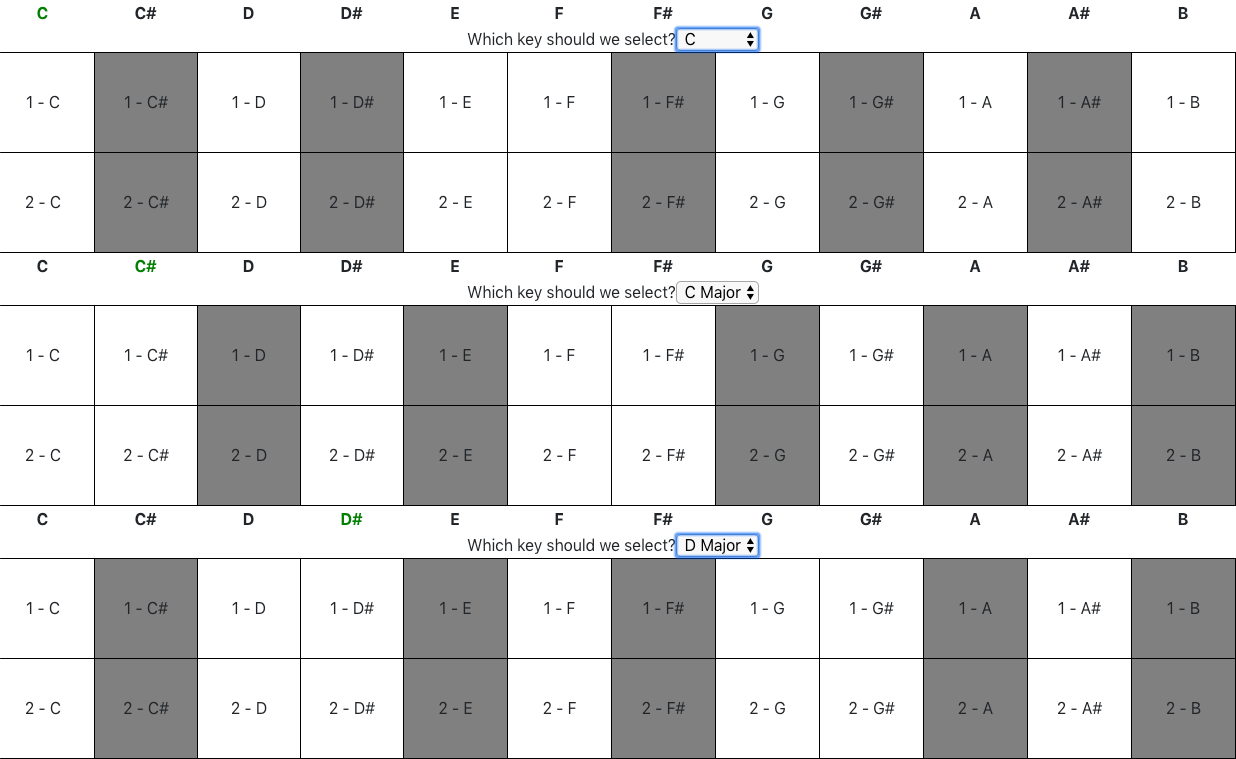
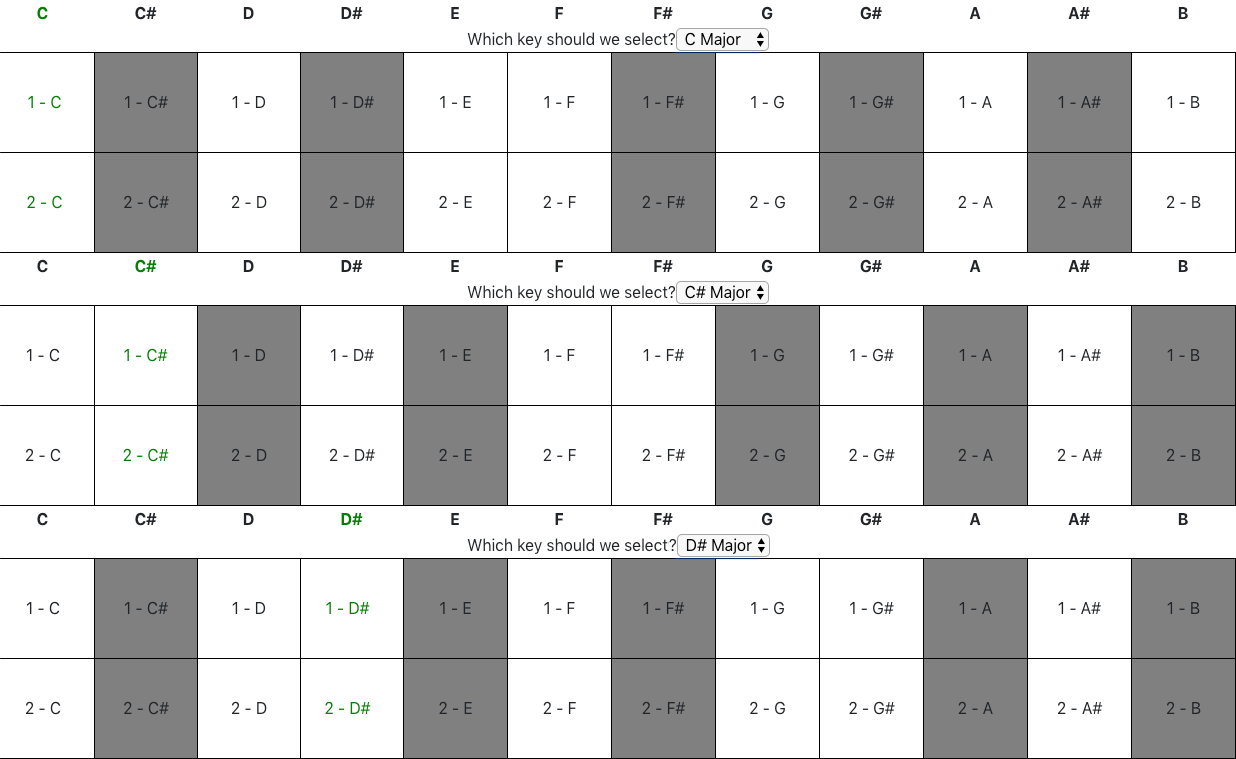
UPDATE: remove some diagrams and align the scales to the starting key per Tom's feedback.

diff --git a/musicTest/static/js/main.2e4c7e1c.chunk.js b/musicTest/static/js/main.2e4c7e1c.chunk.js
@@ -1,0 +1,2 @@
+(window.webpackJsonp=window.webpackJsonp||[]).push([[0],[,,,,,,,,,,,,,function(e,t,a){e.exports=a(29)},,,,,,function(e,t,a){},function(e,t,a){},function(e,t,a){},function(e,t,a){},,,,,function(e,t,a){},function(e,t,a){},function(e,t,a){"use strict";a.r(t);var l=a(0),n=a.n(l),s=a(9),c=a.n(s),r=(a(19),a(1)),i=a(2),o=a(5),m=a(3),h=a(4),y=(a(20),a(21),function(e){return n.a.createElement("div",{className:"content"},e.children)}),u=function(e){return n.a.createElement("img",{className:"img-fluid",src:e.src,alt:e.alt})},p=function(e){return n.a.createElement("div",{className:"section",id:e.id},e.children)},d=(a(22),function(e){return n.a.createElement("div",{className:"major-break"},"\xa0")}),E=function(e){function t(e){return Object(r.a)(this,t),Object(o.a)(this,Object(m.a)(t).call(this))}return Object(h.a)(t,e),Object(i.a)(t,[{key:"render",value:function(){return n.a.createElement("div",{className:"Writeup"},n.a.createElement("hr",null),n.a.createElement("h1",{className:"header",id:"quick_writeup"},"Quick Description"),n.a.createElement(p,{id:"take_this_keyboard"},n.a.createElement("h2",null,"Let's take this keyboard..."),n.a.createElement(u,{src:"img/musicWriteup_pianoKeys.png",alt:"Basic Piano Keyboard"}),n.a.createElement(y,null,"Notice that there is a pattern that is repeated three times (the center repitition is highlighted for clarity)."),n.a.createElement(y,null,"Each pattern is what is called an octave, with each key representing a musical note."),n.a.createElement(y,null,"(Note that the shapes of the keys are significant - the white keys are Staff notes and the dark keys are the Sharp (#) notes.)"),n.a.createElement(u,{src:"img/musicWriteup_take_this_keyboard.png",alt:"Keyboard with black keys spaced out the same as the white keys"}),n.a.createElement(y,null,"For the purposes of this dicussion, the shape of the keys more indicate the scale of C Major and can cause confusion with other scales"),n.a.createElement(y,null,"So we will be mostly focusing on a smaller version of this same keyboard where all the keys are the same size."),n.a.createElement("hr",null)),n.a.createElement(d,null),n.a.createElement(p,{id:"semitone-wheel"},n.a.createElement("h2",null,"Octaves are Patterns"),n.a.createElement(y,null,'An "Octave" is the pattern that repeats. This can mean from C to the next C or the previous C.'),n.a.createElement(u,{src:"img/musicWriteup_octaves.png",alt:"Octave is the distance between the same tone."}),n.a.createElement(y,null,"Note that all notes have Octaves going up or down. It just is a matter of perspective."),n.a.createElement(u,{src:"img/musicWriteup_octaves-shift.png",alt:"An Octave starts from any key, not just C"}),n.a.createElement(y,null,"Each note represents a specific sound frequency. "),n.a.createElement(y,null,"The difference in going up an octave or down an octave of any note is doubling or halving the frequency respectively)"),n.a.createElement(u,{src:"img/musicWriteup_sine-wave.png",alt:"Sine-Wave moving up one octave and down one octave"}),n.a.createElement(y,null,"With 12 notes between octaves, each note can be thought of as an equal 1/12th logrithmic step between octaves. This applies for both white and black keys."),n.a.createElement(u,{src:"img/musicWriteup_play_all_the_keys.png",alt:"All keys in an octave are each semitones"}),n.a.createElement(y,null,"Sometimes this can best be thought of like a circle, with 12 notes written around."),n.a.createElement(u,{src:"img/musicWriteup_semitone-wheel.png",alt:"Circle with a 12 point polygon inscribed"}),n.a.createElement(y,null,"Each trip around the circle is then a new octave. Moving Clockwise goes up an Octave. Moving Counter-Clockwise goes down an Octave."),n.a.createElement("hr",null)),n.a.createElement(d,null),n.a.createElement("h2",null,"Play keys and Skip keys"),n.a.createElement(p,{id:"start-of-major-scales"},n.a.createElement(u,{src:"img/musicWriteup_take_this_keyboard.png",alt:"Keyboard with black keys spaced out the same as the white keys"}),n.a.createElement(y,null,"Lets take a closer look at the scale of C-Major..."),n.a.createElement("div",{className:"content center-align"},n.a.createElement("table",{className:"explaination-table"},n.a.createElement("thead",null,n.a.createElement("tr",null,n.a.createElement("th",null,"C"),n.a.createElement("th",null,"C#"),n.a.createElement("th",null,"D"),n.a.createElement("th",null,"D#"),n.a.createElement("th",null,"E"),n.a.createElement("th",null,"F"),n.a.createElement("th",null,"F#"),n.a.createElement("th",null,"G"),n.a.createElement("th",null,"G#"),n.a.createElement("th",null,"A"),n.a.createElement("th",null,"A#"),n.a.createElement("th",null,"B"))),n.a.createElement("tbody",null,n.a.createElement("tr",null,n.a.createElement("td",{className:"play-key start-key"},"Play Key"),n.a.createElement("td",{className:"skip-key"},"Skip Key"),n.a.createElement("td",{className:"play-key"},"Play Key"),n.a.createElement("td",{className:"skip-key"},"Skip Key"),n.a.createElement("td",{className:"play-key"},"Play Key"),n.a.createElement("td",{className:"play-key"},"Play Key"),n.a.createElement("td",{className:"skip-key"},"Skip Key"),n.a.createElement("td",{className:"play-key"},"Play Key"),n.a.createElement("td",{className:"skip-key"},"Skip Key"),n.a.createElement("td",{className:"play-key"},"Play Key"),n.a.createElement("td",{className:"skip-key"},"Skip Key"),n.a.createElement("td",{className:"play-key"},"Play Key"))))),n.a.createElement(y,null,"Note that the key of C-Major aligns pretty well with the keyboard above. ",n.a.createElement("br",null)," The ",n.a.createElement("b",null,"Lighter colored keys")," are the ",n.a.createElement("b",null,"'Play' keys"),", and the ",n.a.createElement("b",null,"darker colored keys")," are the ",n.a.createElement("b",null,"'Skip' keys"),"."),n.a.createElement("hr",null)),n.a.createElement(p,{id:"shift-d-minor"},n.a.createElement(y,null,"This is the scale of C#-Major (C-Sharp Major). Notice anything similar?"),n.a.createElement("table",{className:"explaination-table"},n.a.createElement("thead",null,n.a.createElement("tr",null,n.a.createElement("th",null,"C#"),n.a.createElement("th",null,"D"),n.a.createElement("th",null,"D#"),n.a.createElement("th",null,"E"),n.a.createElement("th",null,"F"),n.a.createElement("th",null,"F#"),n.a.createElement("th",null,"G"),n.a.createElement("th",null,"G#"),n.a.createElement("th",null,"A"),n.a.createElement("th",null,"A#"),n.a.createElement("th",null,"B"),n.a.createElement("th",null,"C"))),n.a.createElement("tbody",null,n.a.createElement("tr",null,n.a.createElement("td",{className:"play-key start-key"},"Play Key"),n.a.createElement("td",{className:"skip-key"},"Skip Key"),n.a.createElement("td",{className:"play-key"},"Play Key"),n.a.createElement("td",{className:"skip-key"},"Skip Key"),n.a.createElement("td",{className:"play-key"},"Play Key"),n.a.createElement("td",{className:"play-key"},"Play Key"),n.a.createElement("td",{className:"skip-key"},"Skip Key"),n.a.createElement("td",{className:"play-key"},"Play Key"),n.a.createElement("td",{className:"skip-key"},"Skip Key"),n.a.createElement("td",{className:"play-key"},"Play Key"),n.a.createElement("td",{className:"skip-key"},"Skip Key"),n.a.createElement("td",{className:"play-key"},"Play Key")))),n.a.createElement("hr",null)),n.a.createElement(p,{id:"shift-d-major"},n.a.createElement("span",null,"This is the scale of D-Major."),n.a.createElement("table",{className:"explaination-table"},n.a.createElement("thead",null,n.a.createElement("tr",null,n.a.createElement("th",null,"D"),n.a.createElement("th",null,"D#"),n.a.createElement("th",null,"E"),n.a.createElement("th",null,"F"),n.a.createElement("th",null,"F#"),n.a.createElement("th",null,"G"),n.a.createElement("th",null,"G#"),n.a.createElement("th",null,"A"),n.a.createElement("th",null,"A#"),n.a.createElement("th",null,"B"),n.a.createElement("th",null,"C"),n.a.createElement("th",null,"C#"))),n.a.createElement("tbody",null,n.a.createElement("tr",null,n.a.createElement("td",{className:"play-key start-key"},"Play Key"),n.a.createElement("td",{className:"skip-key"},"Skip Key"),n.a.createElement("td",{className:"play-key"},"Play Key"),n.a.createElement("td",{className:"skip-key"},"Skip Key"),n.a.createElement("td",{className:"play-key"},"Play Key"),n.a.createElement("td",{className:"play-key"},"Play Key"),n.a.createElement("td",{className:"skip-key"},"Skip Key"),n.a.createElement("td",{className:"play-key"},"Play Key"),n.a.createElement("td",{className:"skip-key"},"Skip Key"),n.a.createElement("td",{className:"play-key"},"Play Key"),n.a.createElement("td",{className:"skip-key"},"Skip Key"),n.a.createElement("td",{className:"play-key"},"Play Key")))),n.a.createElement("hr",null)),n.a.createElement(p,{id:"shift-e-minor"},n.a.createElement("span",null,"This is the scale of D#-Major."),n.a.createElement("table",{className:"explaination-table"},n.a.createElement("thead",null,n.a.createElement("tr",null,n.a.createElement("th",null,"D#"),n.a.createElement("th",null,"E"),n.a.createElement("th",null,"F"),n.a.createElement("th",null,"F#"),n.a.createElement("th",null,"G"),n.a.createElement("th",null,"G#"),n.a.createElement("th",null,"A"),n.a.createElement("th",null,"A#"),n.a.createElement("th",null,"B"),n.a.createElement("th",null,"C"),n.a.createElement("th",null,"C#"),n.a.createElement("th",null,"D"))),n.a.createElement("tbody",null,n.a.createElement("tr",null,n.a.createElement("td",{className:"play-key start-key"},"Play Key"),n.a.createElement("td",{className:"skip-key"},"Skip Key"),n.a.createElement("td",{className:"play-key"},"Play Key"),n.a.createElement("td",{className:"skip-key"},"Skip Key"),n.a.createElement("td",{className:"play-key"},"Play Key"),n.a.createElement("td",{className:"play-key"},"Play Key"),n.a.createElement("td",{className:"skip-key"},"Skip Key"),n.a.createElement("td",{className:"play-key"},"Play Key"),n.a.createElement("td",{className:"skip-key"},"Skip Key"),n.a.createElement("td",{className:"play-key"},"Play Key"),n.a.createElement("td",{className:"skip-key"},"Skip Key"),n.a.createElement("td",{className:"play-key"},"Play Key")))),n.a.createElement(y,null,"Did you notice a pattern?"),n.a.createElement(y,null,"We are simply shifting the starting key of the pattern"),n.a.createElement(u,{src:"img/musicWriteup_shifting_start.png",alt:"Shift the start"}),n.a.createElement(y,null,"Thinking again in terms of the wheel, this just means we are just rotating the pattern around on the keys to go up and down octaves."),n.a.createElement(u,{src:"img/musicWriteup_c-semitone-wheel-together.png",alt:"Rotating the Semitone circle one 1/12th of the way around"}),n.a.createElement("hr",null)),n.a.createElement(d,null),n.a.createElement(p,{id:"shift-example-1"},n.a.createElement("h2",null,"Let's look closer at C#-Major"),n.a.createElement(u,{src:"img/musicWriteup_shift_1_d_minor.png",alt:"C-Major shift"}),n.a.createElement(y,null,"Playing only those Light Keys gives the Key of C#-Major"),n.a.createElement("hr",null)),n.a.createElement(p,{id:"shift-example-2"},n.a.createElement("h2",null,"Let's look closer at D#-Major"),n.a.createElement(u,{src:"img/musicWriteup_shift_3_e_minor.png",alt:"D-Major shift"}),n.a.createElement(y,null,"Playing only those Light Keys gives the Key of D#-Major")),n.a.createElement(d,null),n.a.createElement(p,{id:"virtual-keyboard"},n.a.createElement(y,null,"Or you can change the key in the virtual keyboard above and hear the tones yourself"),n.a.createElement(u,{src:"img/virtualKeyboard.png",alt:"virtual-keyboard"})))}}]),t}(l.Component),f=a(6),k=a(10),v=a.n(k),g=(a(27),function(e){function t(e){var a;Object(r.a)(this,t);var l=(a=Object(o.a)(this,Object(m.a)(t).call(this))).determineIfSharp(e.type);return a.state={isDown:!1,audioFile:a.calculateAudioFile(e.level,e.note,e.type,l),noteLabel:a.calculateNoteLabel(e.level,e.note,e.type,e.keyOffset,l),cssClasses:a.calculateCssClasses(e.note,e.keyOffset,e.selectedOffsets,l)},a}return Object(h.a)(t,e),Object(i.a)(t,[{key:"determineIfSharp",value:function(e){return"sharp"===e}},{key:"calculateAudioFile",value:function(e,t,a,l){return"lq/"+e+"_"+t+"_"+(l?"sharp":"_____")+"_lo.mp3"}},{key:"calculateNoteLabel",value:function(e,t,a,l,n){return"".concat(e," - ").concat(t).concat(n?"#":"")}},{key:"calculateCssClasses",value:function(e,t,a,l){return"note offset-".concat(t," note-").concat(e?e.toLowerCase():"").concat(l?"-sharp":"")}},{key:"handleFinishedPlaying",value:function(){this.setState(function(e){return{isDown:!1}})}},{key:"toggleIsDown",value:function(){this.setState(function(e){return{isDown:!e.isDown}})}},{key:"render",value:function(){var e=this,t=!1;return this.props.selectedKeyOffsets&&(t=this.props.selectedKeyOffsets.includes(this.props.keyOffset)),n.a.createElement("td",{className:this.state.cssClasses+" "+(this.state.isDown?"playing":"")+" "+(t?"selected":""),onClick:function(t){return e.toggleIsDown(!0,t)}},n.a.createElement("span",{title:this.audioFile},this.state.noteLabel),n.a.createElement(v.a,{url:this.state.audioFile,playStatus:this.state.isDown?"PLAYING":"STOPPED",onFinishedPlaying:function(t){return e.handleFinishedPlaying(t)}}))}}]),t}(l.Component)),O=function(e){function t(e){return Object(r.a)(this,t),Object(o.a)(this,Object(m.a)(t).call(this))}return Object(h.a)(t,e),Object(i.a)(t,[{key:"render",value:function(){return n.a.createElement("tr",{className:"octave"},n.a.createElement(g,{level:this.props.level,note:"C",type:"standard",keyOffset:1,selectedKeyOffsets:this.props.selectedKeyOffsets}),n.a.createElement(g,{level:this.props.level,note:"C",type:"sharp",keyOffset:2,selectedKeyOffsets:this.props.selectedKeyOffsets}),n.a.createElement(g,{level:this.props.level,note:"D",type:"standard",keyOffset:3,selectedKeyOffsets:this.props.selectedKeyOffsets}),n.a.createElement(g,{level:this.props.level,note:"D",type:"sharp",keyOffset:4,selectedKeyOffsets:this.props.selectedKeyOffsets}),n.a.createElement(g,{level:this.props.level,note:"E",type:"standard",keyOffset:5,selectedKeyOffsets:this.props.selectedKeyOffsets}),n.a.createElement(g,{level:this.props.level,note:"F",type:"standard",keyOffset:6,selectedKeyOffsets:this.props.selectedKeyOffsets}),n.a.createElement(g,{level:this.props.level,note:"F",type:"sharp",keyOffset:7,selectedKeyOffsets:this.props.selectedKeyOffsets}),n.a.createElement(g,{level:this.props.level,note:"G",type:"standard",keyOffset:8,selectedKeyOffsets:this.props.selectedKeyOffsets}),n.a.createElement(g,{level:this.props.level,note:"G",type:"sharp",keyOffset:9,selectedKeyOffsets:this.props.selectedKeyOffsets}),n.a.createElement(g,{level:this.props.level,note:"A",type:"standard",keyOffset:10,selectedKeyOffsets:this.props.selectedKeyOffsets}),n.a.createElement(g,{level:this.props.level,note:"A",type:"sharp",keyOffset:11,selectedKeyOffsets:this.props.selectedKeyOffsets}),n.a.createElement(g,{level:this.props.level,note:"B",type:"standard",keyOffset:12,selectedKeyOffsets:this.props.selectedKeyOffsets}))}}]),t}(l.Component),K=a(12),b=[1,3,5,6,8,10,12],N=function(e){function t(e){var a;return Object(r.a)(this,t),(a=Object(o.a)(this,Object(m.a)(t).call(this))).handleSelectChanged=a.handleSelectChanged.bind(Object(f.a)(Object(f.a)(a)),!1),a}return Object(h.a)(t,e),Object(i.a)(t,[{key:"mapKey",value:function(e){return b.map(function(t){return(t-1+e)%12+1})}},{key:"handleSelectChanged",value:function(e){console.log("change occurred");var t=document.getElementById("key-selector").value.split(":"),a=Object(K.a)(t,2),l=a[0],n=a[1],s=0;try{s=parseInt(l)}catch(r){}var c=this.mapKey(s);console.log(c),this.props.onKeyChange(c,n,e)}},{key:"render",value:function(){return n.a.createElement("form",{className:"KeySelector"},n.a.createElement("span",null,"Which key should we select?"),n.a.createElement("select",{id:"key-selector",onChange:this.handleSelectChanged},n.a.createElement("option",{value:"0:c-std"},"C Major"),n.a.createElement("option",{value:"1:c-major"},"C# Major"),n.a.createElement("option",{value:"2:d-std"},"D Major"),n.a.createElement("option",{value:"3:d-major"},"D# Major"),n.a.createElement("option",{value:"4:e-std"},"E Major"),n.a.createElement("option",{value:"5:f-std"},"F Major"),n.a.createElement("option",{value:"6:f-major"},"F# Major"),n.a.createElement("option",{value:"7:g-std"},"G Major"),n.a.createElement("option",{value:"8:g-major"},"G# Major"),n.a.createElement("option",{value:"9:a-std"},"A Major"),n.a.createElement("option",{value:"10:a-major"},"A# Major"),n.a.createElement("option",{value:"11:b-std"},"B Major")))}}]),t}(l.Component),j=a(11),w=(a(28),[1,3,5,6,8,10,12]),C=function(e){function t(e){var a;return Object(r.a)(this,t),(a=Object(o.a)(this,Object(m.a)(t).call(this))).state={selectedOffsets:w,keyName:"c-std"},a.handleKeyChanged=a.handleKeyChanged.bind(Object(f.a)(Object(f.a)(a))),a}return Object(h.a)(t,e),Object(i.a)(t,[{key:"componentDidMount",value:function(){j.soundManager.setup({autoLoad:!0,ignoreMobileRestrictions:!0})}},{key:"handleKeyChanged",value:function(e,t,a){console.log("app registered the key changed"),this.setState(function(a){return{selectedOffsets:e,keyName:t}})}},{key:"render",value:function(){return n.a.createElement("div",{className:"VirtualPiano ".concat(this.state.keyName)},n.a.createElement("table",null,n.a.createElement("thead",null,n.a.createElement("tr",null,n.a.createElement("th",{className:"header note-c"},"C "),n.a.createElement("th",{className:"header note-c-sharp"},"C#"),n.a.createElement("th",{className:"header note-d"},"D"),n.a.createElement("th",{className:"header note-d-sharp"},"D#"),n.a.createElement("th",{className:"header note-e"},"E"),n.a.createElement("th",{className:"header note-f"},"F"),n.a.createElement("th",{className:"header note-f-sharp"},"F#"),n.a.createElement("th",{className:"header note-g"},"G"),n.a.createElement("th",{className:"header note-g-sharp"},"G#"),n.a.createElement("th",{className:"header note-a"},"A"),n.a.createElement("th",{className:"header note-a-sharp"},"A#"),n.a.createElement("th",{className:"header note-b"},"B"))),n.a.createElement("tbody",null,n.a.createElement("tr",null,n.a.createElement("td",{colSpan:"12"},n.a.createElement(N,{onKeyChange:this.handleKeyChanged}))),n.a.createElement(O,{level:"1",selectedKeyOffsets:this.state.selectedOffsets}),n.a.createElement(O,{level:"2",selectedKeyOffsets:this.state.selectedOffsets}),n.a.createElement(O,{level:"3",selectedKeyOffsets:this.state.selectedOffsets}),n.a.createElement(O,{level:"4",selectedKeyOffsets:this.state.selectedOffsets}),n.a.createElement(O,{level:"5",selectedKeyOffsets:this.state.selectedOffsets}),n.a.createElement(O,{level:"6",selectedKeyOffsets:this.state.selectedOffsets}),n.a.createElement(O,{level:"7",selectedKeyOffsets:this.state.selectedOffsets}))),n.a.createElement(y,null,"Tap the note to start/stop a sound (Lighter keys are within the scale, Darker keys are not)"),n.a.createElement(y,null,"Start from the Green key to play the given scale."))}}]),t}(l.Component),S=function(e){function t(e){return Object(r.a)(this,t),Object(o.a)(this,Object(m.a)(t).call(this))}return Object(h.a)(t,e),Object(i.a)(t,[{key:"render",value:function(){return n.a.createElement("div",{className:"App"},n.a.createElement(C,null),n.a.createElement(E,null))}}]),t}(l.Component);Boolean("localhost"===window.location.hostname||"[::1]"===window.location.hostname||window.location.hostname.match(/^127(?:\.(?:25[0-5]|2[0-4][0-9]|[01]?[0-9][0-9]?)){3}$/));c.a.render(n.a.createElement(S,null),document.getElementById("root")),"serviceWorker"in navigator&&navigator.serviceWorker.ready.then(function(e){e.unregister()})}],[[13,1,2]]]);
+//# sourceMappingURL=main.2e4c7e1c.chunk.js.map

diff --git a/musicTest/index.html b/musicTest/index.html
@@ -1,1 +1,1 @@
-<!doctype html><html lang="en"><head><meta charset="utf-8"/><link rel="shortcut icon" href="/musicTest/favicon.ico"/><link rel="stylesheet" href="https://stackpath.bootstrapcdn.com/bootstrap/4.3.1/css/bootstrap.min.css" integrity="sha384-ggOyR0iXCbMQv3Xipma34MD+dH/1fQ784/j6cY/iJTQUOhcWr7x9JvoRxT2MZw1T" crossorigin="anonymous"><meta name="viewport" content="width=device-width,initial-scale=1,shrink-to-fit=no"/><meta name="theme-color" content="#000000"/><link rel="manifest" href="/musicTest/manifest.json"/><title>Understanding Music Scales</title><link href="/musicTest/static/css/main.3e971f3a.chunk.css" rel="stylesheet"></head><body><noscript>You need to enable JavaScript to run this app.</noscript><div id="root"></div><script>!function(l){function e(e){for(var r,t,n=e[0],o=e[1],u=e[2],i=0,f=[];i<n.length;i++)t=n[i],c[t]&&f.push(c[t][0]),c[t]=0;for(r in o)Object.prototype.hasOwnProperty.call(o,r)&&(l[r]=o[r]);for(s&&s(e);f.length;)f.shift()();return p.push.apply(p,u||[]),a()}function a(){for(var e,r=0;r<p.length;r++){for(var t=p[r],n=!0,o=1;o<t.length;o++){var u=t[o];0!==c[u]&&(n=!1)}n&&(p.splice(r--,1),e=i(i.s=t[0]))}return e}var t={},c={1:0},p=[];function i(e){if(t[e])return t[e].exports;var r=t[e]={i:e,l:!1,exports:{}};return l[e].call(r.exports,r,r.exports,i),r.l=!0,r.exports}i.m=l,i.c=t,i.d=function(e,r,t){i.o(e,r)||Object.defineProperty(e,r,{enumerable:!0,get:t})},i.r=function(e){"undefined"!=typeof Symbol&&Symbol.toStringTag&&Object.defineProperty(e,Symbol.toStringTag,{value:"Module"}),Object.defineProperty(e,"__esModule",{value:!0})},i.t=function(r,e){if(1&e&&(r=i(r)),8&e)return r;if(4&e&&"object"==typeof r&&r&&r.__esModule)return r;var t=Object.create(null);if(i.r(t),Object.defineProperty(t,"default",{enumerable:!0,value:r}),2&e&&"string"!=typeof r)for(var n in r)i.d(t,n,function(e){return r[e]}.bind(null,n));return t},i.n=function(e){var r=e&&e.__esModule?function(){return e.default}:function(){return e};return i.d(r,"a",r),r},i.o=function(e,r){return Object.prototype.hasOwnProperty.call(e,r)},i.p="/musicTest/";var r=window.webpackJsonp=window.webpackJsonp||[],n=r.push.bind(r);r.push=e,r=r.slice();for(var o=0;o<r.length;o++)e(r[o]);var s=n;a()}([])</script><script src="/musicTest/static/js/2.63a7d94e.chunk.js"></script><script src="/musicTest/static/js/main.dcf74447.chunk.js"></script></body></html>
+<!doctype html><html lang="en"><head><meta charset="utf-8"/><link rel="shortcut icon" href="/musicTest/favicon.ico"/><link rel="stylesheet" href="https://stackpath.bootstrapcdn.com/bootstrap/4.3.1/css/bootstrap.min.css" integrity="sha384-ggOyR0iXCbMQv3Xipma34MD+dH/1fQ784/j6cY/iJTQUOhcWr7x9JvoRxT2MZw1T" crossorigin="anonymous"><meta name="viewport" content="width=device-width,initial-scale=1,shrink-to-fit=no"/><meta name="theme-color" content="#000000"/><link rel="manifest" href="/musicTest/manifest.json"/><title>Understanding Music Scales</title><link href="/musicTest/static/css/main.7a157ffb.chunk.css" rel="stylesheet"></head><body><noscript>You need to enable JavaScript to run this app.</noscript><div id="root"></div><script>!function(l){function e(e){for(var r,t,n=e[0],o=e[1],u=e[2],i=0,f=[];i<n.length;i++)t=n[i],c[t]&&f.push(c[t][0]),c[t]=0;for(r in o)Object.prototype.hasOwnProperty.call(o,r)&&(l[r]=o[r]);for(s&&s(e);f.length;)f.shift()();return p.push.apply(p,u||[]),a()}function a(){for(var e,r=0;r<p.length;r++){for(var t=p[r],n=!0,o=1;o<t.length;o++){var u=t[o];0!==c[u]&&(n=!1)}n&&(p.splice(r--,1),e=i(i.s=t[0]))}return e}var t={},c={1:0},p=[];function i(e){if(t[e])return t[e].exports;var r=t[e]={i:e,l:!1,exports:{}};return l[e].call(r.exports,r,r.exports,i),r.l=!0,r.exports}i.m=l,i.c=t,i.d=function(e,r,t){i.o(e,r)||Object.defineProperty(e,r,{enumerable:!0,get:t})},i.r=function(e){"undefined"!=typeof Symbol&&Symbol.toStringTag&&Object.defineProperty(e,Symbol.toStringTag,{value:"Module"}),Object.defineProperty(e,"__esModule",{value:!0})},i.t=function(r,e){if(1&e&&(r=i(r)),8&e)return r;if(4&e&&"object"==typeof r&&r&&r.__esModule)return r;var t=Object.create(null);if(i.r(t),Object.defineProperty(t,"default",{enumerable:!0,value:r}),2&e&&"string"!=typeof r)for(var n in r)i.d(t,n,function(e){return r[e]}.bind(null,n));return t},i.n=function(e){var r=e&&e.__esModule?function(){return e.default}:function(){return e};return i.d(r,"a",r),r},i.o=function(e,r){return Object.prototype.hasOwnProperty.call(e,r)},i.p="/musicTest/";var r=window.webpackJsonp=window.webpackJsonp||[],n=r.push.bind(r);r.push=e,r=r.slice();for(var o=0;o<r.length;o++)e(r[o]);var s=n;a()}([])</script><script src="/musicTest/static/js/2.63a7d94e.chunk.js"></script><script src="/musicTest/static/js/main.2e4c7e1c.chunk.js"></script></body></html>

diff --git a/musicTest/static/css/main.7a157ffb.chunk.css b/musicTest/static/css/main.7a157ffb.chunk.css
@@ -1,0 +1,2 @@
+body{margin:0;padding:0;font-family:-apple-system,BlinkMacSystemFont,Segoe UI,Roboto,Oxygen,Ubuntu,Cantarell,Fira Sans,Droid Sans,Helvetica Neue,sans-serif;-webkit-font-smoothing:antialiased;-moz-osx-font-smoothing:grayscale}code{font-family:source-code-pro,Menlo,Monaco,Consolas,Courier New,monospace}.App{text-align:center}table.explaination-table{width:100%;margin:10px;border:1px solid #bbb}.play-key{background-color:#fff}.skip-key{background-color:#bbb}.start-key{font-weight:700}.major-break{padding-top:200px}.octave td.note{width:60px;height:100px;border:1px solid #000;margin:5px}td.note{background-color:grey}td.note.selected{background-color:#fff}.VirtualPiano>table{width:100%}.VirtualPiano.a-major .note-a-sharp,.VirtualPiano.a-std .note-a,.VirtualPiano.b-std .note-b,.VirtualPiano.c-major .note-c-sharp,.VirtualPiano.c-std .note-c,.VirtualPiano.d-major .note-d-sharp,.VirtualPiano.d-std .note-d,.VirtualPiano.e-std .note-e,.VirtualPiano.f-major .note-f-sharp,.VirtualPiano.f-std .note-f,.VirtualPiano.g-major .note-g-sharp,.VirtualPiano.g-std .note-g{color:green}
+/*# sourceMappingURL=main.7a157ffb.chunk.css.map */

diff --git a/musicTest/precache-manifest.b8af780aa4a4bd74a50e19a6d291cbf8.js b/musicTest/precache-manifest.b8af780aa4a4bd74a50e19a6d291cbf8.js
@@ -4,19 +4,19 @@ self.__precacheManifest = [
     "url": "/musicTest/static/js/runtime~main.0cf311f6.js"
   },
   {
-    "revision": "dcf74447262896470814",
-    "url": "/musicTest/static/js/main.dcf74447.chunk.js"
+    "revision": "2e4c7e1c8b558db22b3f",
+    "url": "/musicTest/static/js/main.2e4c7e1c.chunk.js"
   },
   {
     "revision": "63a7d94efc3a67c9cfb1",
     "url": "/musicTest/static/js/2.63a7d94e.chunk.js"
   },
   {
-    "revision": "dcf74447262896470814",
-    "url": "/musicTest/static/css/main.3e971f3a.chunk.css"
+    "revision": "2e4c7e1c8b558db22b3f",
+    "url": "/musicTest/static/css/main.7a157ffb.chunk.css"
   },
   {
-    "revision": "9bc116646702f4b92495ff1b6fcbfb4a",
+    "revision": "d30724604299af47f54062f43d36fb83",
     "url": "/musicTest/index.html"
   }
 ];

diff --git a/musicTest/service-worker.js b/musicTest/service-worker.js
@@ -14,7 +14,7 @@
 importScripts("https://storage.googleapis.com/workbox-cdn/releases/3.6.3/workbox-sw.js");
 
 importScripts(
-  "/musicTest/precache-manifest.c9d1915fd9e8f25fe52270948ab3da1f.js"
+  "/musicTest/precache-manifest.b8af780aa4a4bd74a50e19a6d291cbf8.js"
 );
 
 workbox.clientsClaim();
